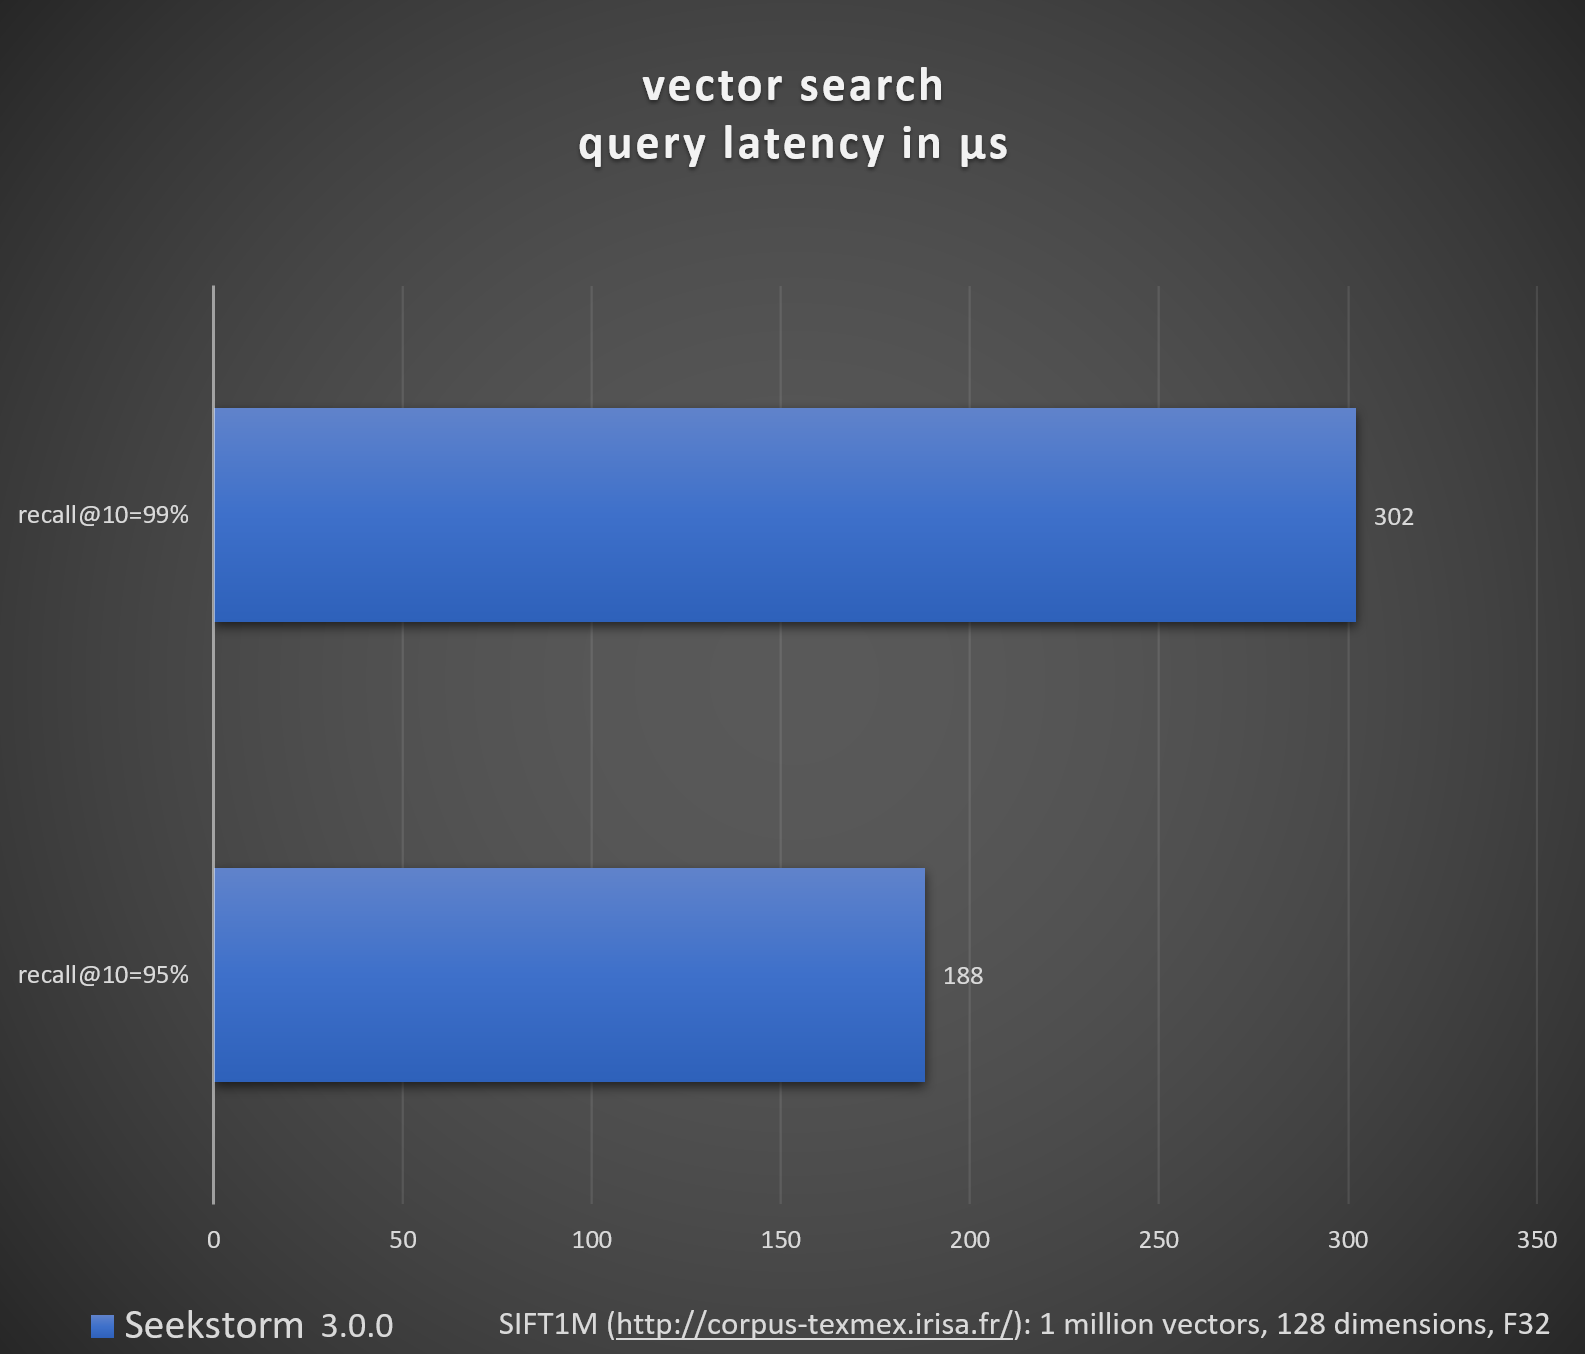
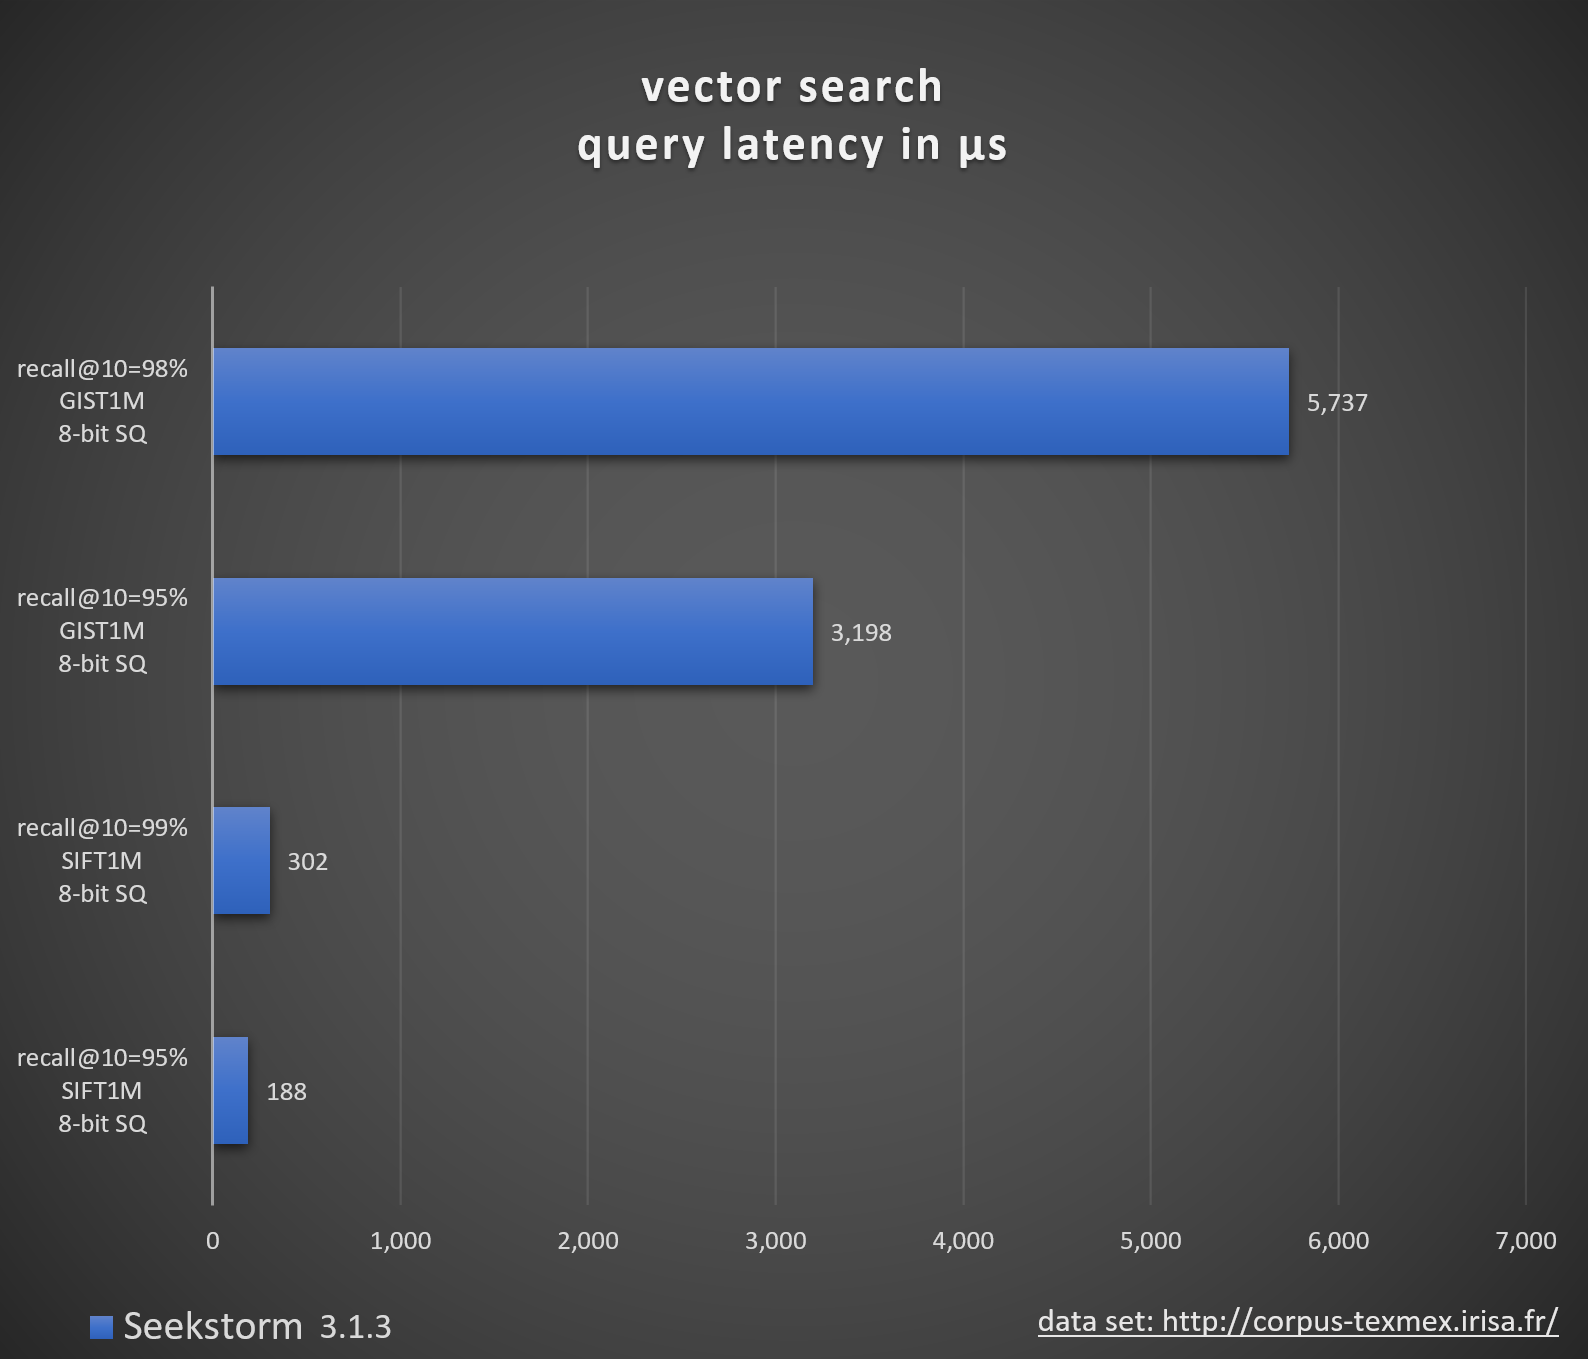
GIST1M added to vector search benchmark

diff --git a/README.md b/README.md
@@ -208,11 +208,16 @@ See our **blog posts** for more detailed information: [SeekStorm is now Open Sou
 <br>
 <br>
 
-- [SIFT1M dataset](http://corpus-texmex.irisa.fr/) 1 million vectors, 128 dimensions, f32 precision  
-- nprobe=16 -> recall@10=95%, average latency=188 microseconds  
-- nprobe=33 -> recall@10=99%, average latency=302 microseconds  
+- [SIFT1M dataset](http://corpus-texmex.irisa.fr/) 1 million vectors, 128 dimensions, f32 precision, Euclidean  
+- 8-bit Scalar Quantization, nprobe=16 -> recall@10=95%, average latency=188 microseconds  
+- 8-bit Scalar Quantization, nprobe=33 -> recall@10=99%, average latency=302 microseconds  
 
-[SIFT1M dataset](http://corpus-texmex.irisa.fr/)
+<br>
+
+- [GIST1M dataset](http://corpus-texmex.irisa.fr/) 1 million vectors, 960 dimensions, f32 precision, Euclidean  
+- 8-bit Scalar Quantization, nprobe=38 -> recall@10=95%, average latency=3,198 microseconds  
+- 8-bit Scalar Quantization, nprobe=80 -> recall@10=98%, average latency=5,737 microseconds  
+
 
 [Benchmark code](#vector-search-sift1m-dataset)
 
